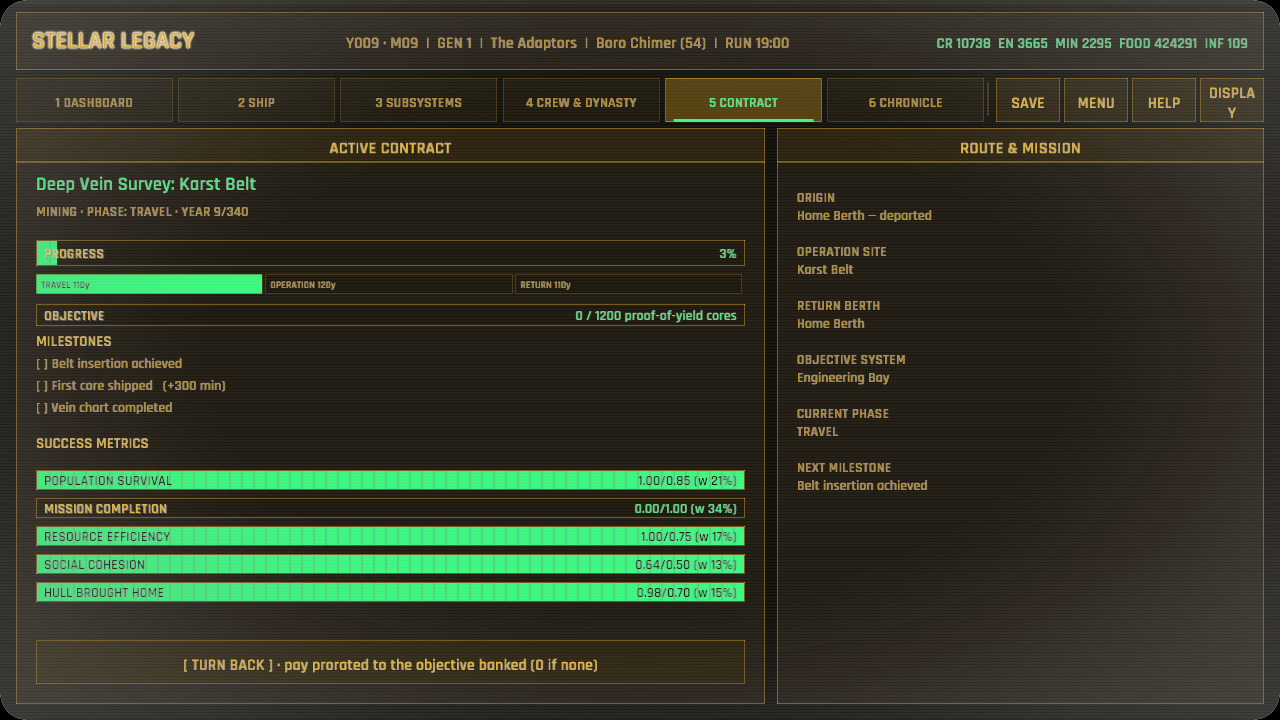
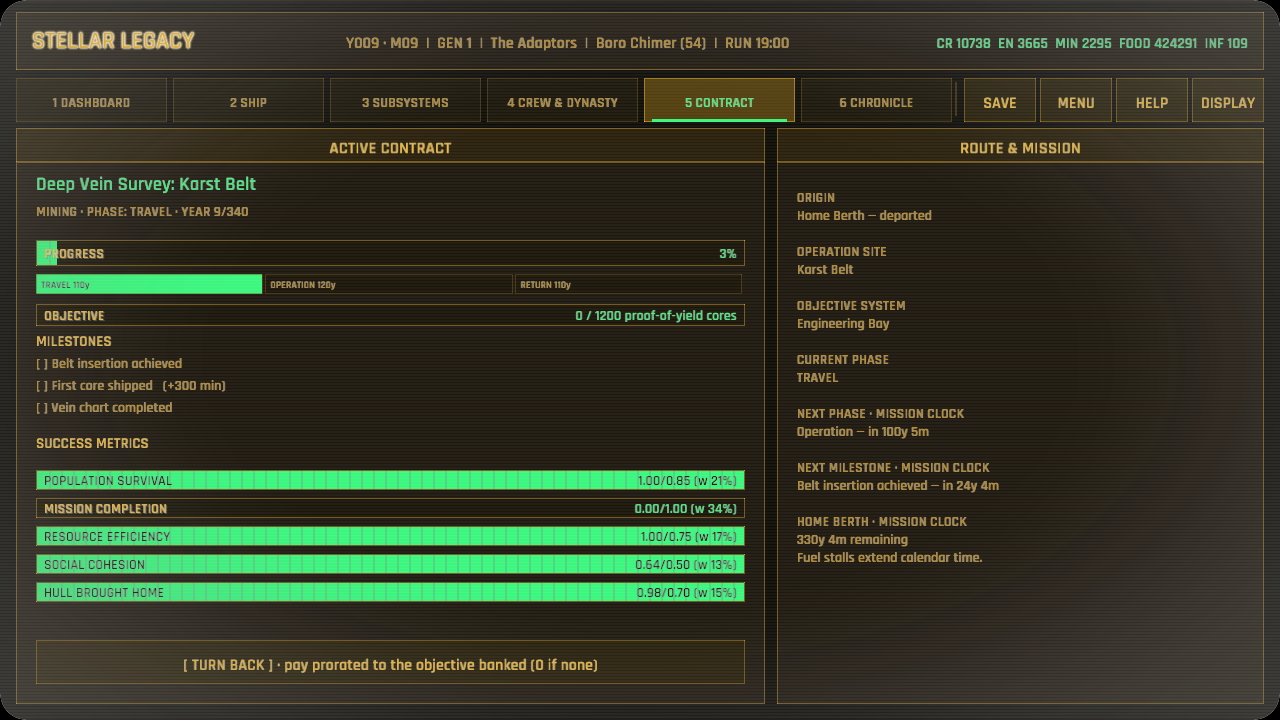
The route clock names every horizon before landfall (contract pacing UI)
Active contracts showed progress but left the player to infer when a phase, milestone, or homecoming would arrive. Long charters therefore felt temporally opaque, especially when fuel stalls separated campaign time from time actually flown.\n\nThe active Contract screen now forecasts the next authored leg, the next unreached milestone, and return to Home Berth in month-precise mission time. The state owns the boundary calculations, the UI explicitly warns that fuel stalls extend calendar time, and a regression test fixes the phase and milestone rounding rules. The verification capture records the updated route panel.

diff --git a/src/ui/contract_systems.rs b/src/ui/contract_systems.rs
@@ -31,6 +31,17 @@ fn reward_hint(reward: &ResourceDelta) -> String {
     }
 }
 
+/// Compact mission-clock duration. This deliberately avoids "calendar" or a
+/// campaign year: a ship without fuel can spend longer in-world than this ETA.
+fn mission_time(months: u32) -> String {
+    match (months / 12, months % 12) {
+        (0, 0) => "NOW".to_owned(),
+        (0, months) => format!("{months}m"),
+        (years, 0) => format!("{years}y"),
+        (years, months) => format!("{years}y {months}m"),
+    }
+}
+
 /// The DRYDOCK tab (docked only, real-time loop §5): the PREP screen when a
 /// charter is under consideration, else the available-charter board. Never shows
 /// under way — the CONTRACT tab replaces it there.
@@ -238,15 +249,30 @@ fn draw_active(ctx: &GameplayCtx<'_>, area: Rect, pointer: Pointer, actions: &mu
                 .map(|s| s.name.as_str())
         })
         .unwrap_or(&contract.objective_subsystem);
+    let next_phase = contract
+        .next_phase_eta()
+        .map(|(phase, eta)| {
+            format!(
+                "{} — in {}",
+                phase.label(),
+                mission_time(eta).to_lowercase()
+            )
+        })
+        .unwrap_or_else(|| "Final leg — no further change".to_owned());
     let next_milestone = contract
-        .milestones
-        .iter()
-        .find(|milestone| !milestone.reached)
-        .map(|milestone| milestone.name.as_str())
-        .unwrap_or("All authored milestones reached");
+        .next_milestone_eta()
+        .map(|(milestone, eta)| {
+            format!(
+                "{} — in {}",
+                milestone.name,
+                mission_time(eta).to_lowercase()
+            )
+        })
+        .unwrap_or_else(|| "All authored milestones reached".to_owned());
     let phase = contract.phase.label().to_uppercase();
     let route = format!(
-        "ORIGIN\nHome Berth — departed\n\nOPERATION SITE\n{operation}\n\nRETURN BERTH\nHome Berth\n\nOBJECTIVE SYSTEM\n{objective_system}\n\nCURRENT PHASE\n{phase}\n\nNEXT MILESTONE\n{next_milestone}"
+        "ORIGIN\nHome Berth — departed\n\nOPERATION SITE\n{operation}\n\nOBJECTIVE SYSTEM\n{objective_system}\n\nCURRENT PHASE\n{phase}\n\nNEXT PHASE · MISSION CLOCK\n{next_phase}\n\nNEXT MILESTONE · MISSION CLOCK\n{next_milestone}\n\nHOME BERTH · MISSION CLOCK\n{} remaining\nFuel stalls extend calendar time.",
+        mission_time(contract.mission_months_remaining()).to_lowercase()
     );
     draw_text_block(
         &route,

diff --git a/src/state/sim/contract.rs b/src/state/sim/contract.rs
@@ -274,6 +274,50 @@ impl ActiveContract {
         self.target_duration_years * 12
     }
 
+    /// Mission-clock time still to fly. Calendar time can be longer when the
+    /// drive is stalled for fuel, so UI copy must keep this distinct from a
+    /// campaign-year promise.
+    pub fn mission_months_remaining(&self) -> u32 {
+        self.total_months().saturating_sub(self.months_elapsed)
+    }
+
+    /// The next authored leg and the mission months until it begins. Segment
+    /// boundaries follow `phase_at`: a segment ending at month 12 remains the
+    /// active phase for month 12, then the next begins on month 13.
+    pub fn next_phase_eta(&self) -> Option<(crate::data::contracts::ContractPhase, u32)> {
+        use crate::data::contracts::ContractPhase;
+        if self.phase == ContractPhase::Completion {
+            return None;
+        }
+        if self.phase == ContractPhase::Preparation {
+            return self.phases.first().map(|segment| (segment.kind, 1));
+        }
+        let next = self.phases.get(self.phase_index + 1)?;
+        let current_end: u32 = self.phases[..=self.phase_index]
+            .iter()
+            .map(|segment| segment.years * 12)
+            .sum();
+        Some((
+            next.kind,
+            current_end
+                .saturating_add(1)
+                .saturating_sub(self.months_elapsed),
+        ))
+    }
+
+    /// The first unreached milestone and its mission-clock ETA. Milestones are
+    /// tested after each monthly increment, so fractional thresholds round up
+    /// to the first whole month that can actually reach them.
+    pub fn next_milestone_eta(&self) -> Option<(&MilestoneState, u32)> {
+        let milestone = self
+            .milestones
+            .iter()
+            .find(|milestone| !milestone.reached)?;
+        let target_month =
+            (self.total_months() as f32 * milestone.progress_threshold).ceil() as u32;
+        Some((milestone, target_month.saturating_sub(self.months_elapsed)))
+    }
+
     /// Timeline position as a 0-1 fraction (milestones + the UI bar).
     pub fn progress(&self) -> f32 {
         let total = self.total_months();

diff --git a/src/state/sim/tests.rs b/src/state/sim/tests.rs
@@ -99,3 +99,33 @@ fn an_unread_homecoming_survives_a_save_and_load() {
     let back: SimState = serde_json::from_str(&json).unwrap();
     assert!(back.debrief.is_none());
 }
+
+#[test]
+fn active_contract_forecasts_follow_mission_month_boundaries() {
+    let data = GameData::load().unwrap();
+    let sim = SimState::new_campaign(
+        &data,
+        "preservers",
+        13,
+        &crate::state::sim::founding_faction_ids(&data),
+    );
+    let template = data.contracts.get("founding_colony").unwrap();
+    let mut active = crate::simulation::contract::start_contract(template, &sim);
+
+    assert_eq!(active.mission_months_remaining(), active.total_months());
+    assert_eq!(active.next_phase_eta(), Some((active.phases[0].kind, 1)));
+
+    active.months_elapsed = 1;
+    (active.phase_index, active.phase) = active.phase_at(active.months_elapsed);
+    assert_eq!(
+        active.next_phase_eta(),
+        Some((active.phases[1].kind, active.phases[0].years * 12))
+    );
+
+    let (milestone, eta) = active.next_milestone_eta().unwrap();
+    let target_month = (active.total_months() as f32 * milestone.progress_threshold).ceil() as u32;
+    assert_eq!(eta, target_month - active.months_elapsed);
+
+    active.months_elapsed = active.total_months() + 6;
+    assert_eq!(active.mission_months_remaining(), 0);
+}
